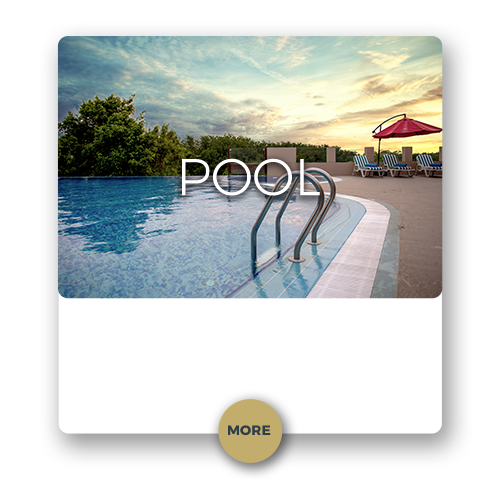
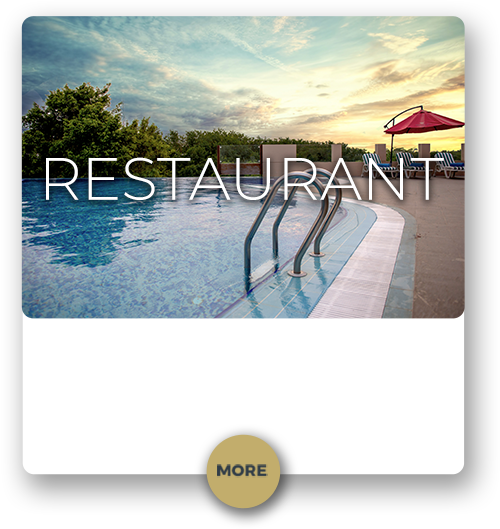
fix the image height

diff --git a/src/pages/restaurant/restaurant.html b/src/pages/restaurant/restaurant.html
@@ -91,4 +91,25 @@
       </ion-row>
     </ion-grid>
   </ion-card>
+
+  <ion-card>
+    <ion-grid>
+      <ion-row>
+        <ion-col col-5 class="col-padding"> <img class="card-image" src="assets/imgs/saigon.png"/></ion-col>
+        <ion-col col-7>
+          <ion-card-content>
+            <ion-card-title class="card-title-text margin-left-info">
+              SAIGON
+            </ion-card-title>
+            <div class="margin-left-info">
+              <p class="card-paragraph-text">
+                The cafe by the lake that serves you a Street Food themed menu with influences.
+              </p>
+              <button ion-button class="button-color btn-text-color" full>ORDER NOW</button>
+            </div>
+          </ion-card-content>
+        </ion-col>
+      </ion-row>
+    </ion-grid>
+  </ion-card>
 </ion-content>
